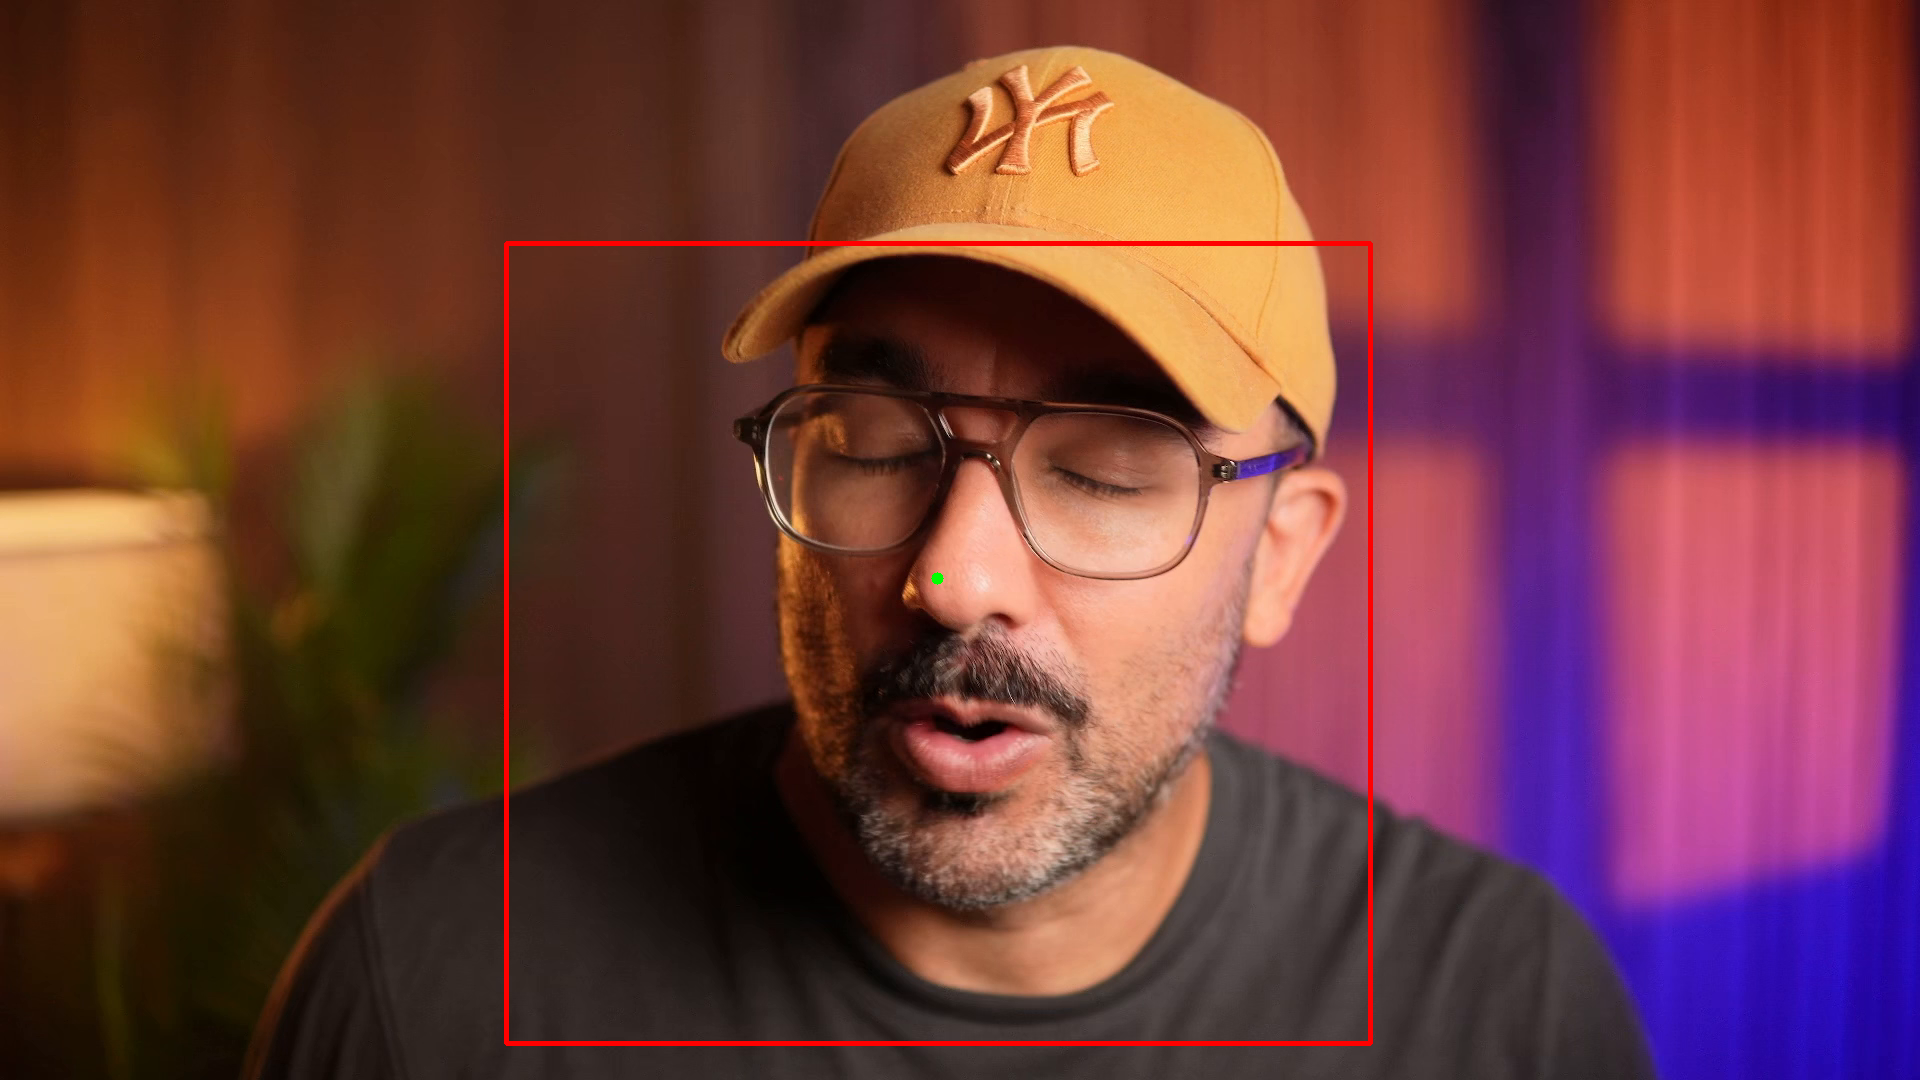
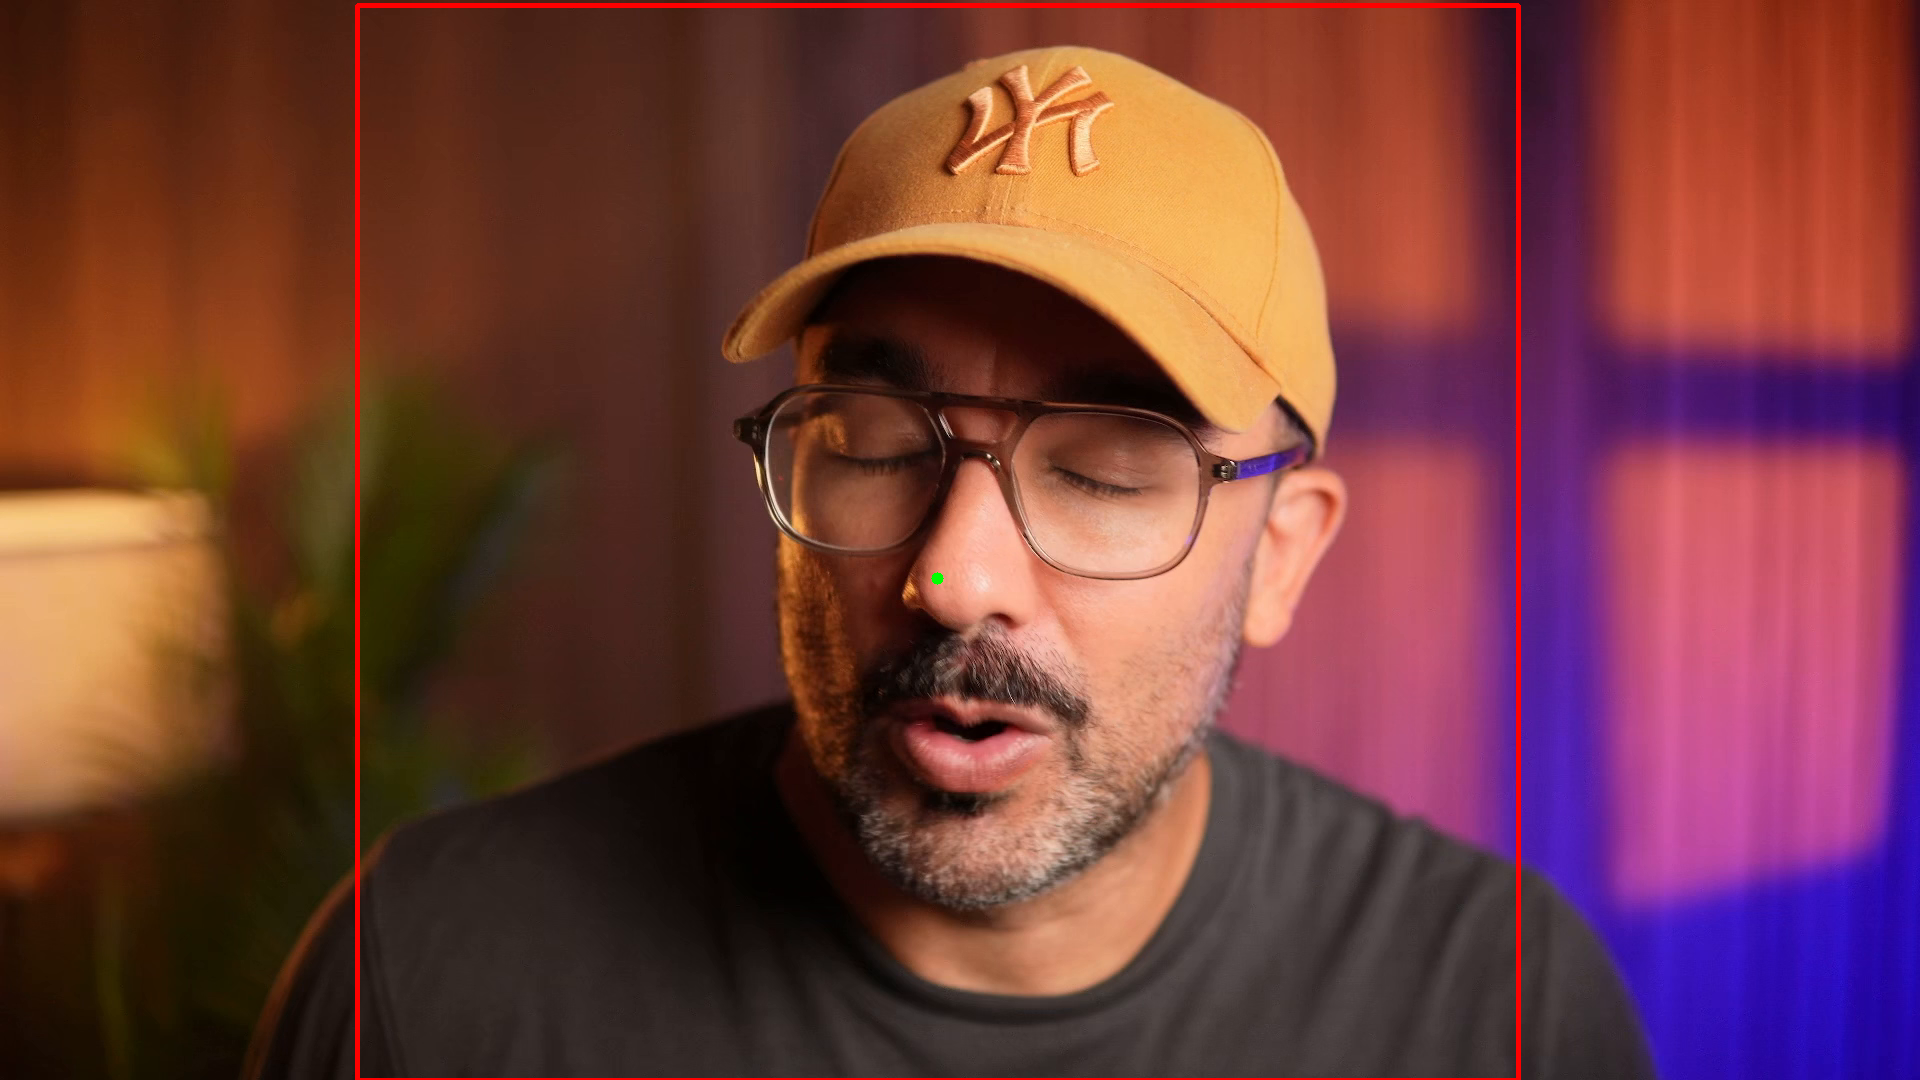
clips: cadrage visage pleine hauteur par défaut (zoom 0.93), la casquette n'est plus coupée
Claude-Session: https://claude.ai/code/session_01HyebmR3vSRbjgLMRLPAjUA

diff --git a/clips/tools/render_face.py b/clips/tools/render_face.py
@@ -120,7 +120,7 @@ def main():
     ap.add_argument("--out", required=True)
     ap.add_argument("--crop", default="auto")
     ap.add_argument("--out-size", default="1080x1000")
-    ap.add_argument("--zoom", type=float, default=1.25, help="face scale relative to a 1:1 crop of a 1080p frame")
+    ap.add_argument("--zoom", type=float, default=0.93, help="face scale relative to a 1:1 crop of a 1080p frame (<1 = use more of the frame; 0.93 keeps the full height of a 1080p source)")
     ap.add_argument("--headroom", type=float, default=0.42, help="face centre position as a fraction of crop height")
     ap.add_argument("--crf", type=int, default=16)
     ap.add_argument("--preview", action="store_true")

diff --git a/clips/README.md b/clips/README.md
@@ -25,7 +25,7 @@ python3 -I clips/tools/locate_segments.py --src master.mp4 --words master_words.
 # 3. Cut list : ancres de texte → index d'images, coupe de toute pause > 0,25 s, sous-titres re-synchronisés
 python3 -I clips/tools/build_cutlist.py work/seg/segments.json spec.json work/cutlist.json
 # 4. Piste visage : coupes exactes, cadrage automatique sur le visage (YuNet), micro-fondus audio
-python3 -I clips/tools/render_face.py --cutlist work/cutlist.json --out work/face.mp4 --out-size 1080x1000 --zoom 1.25
+python3 -I clips/tools/render_face.py --cutlist work/cutlist.json --out work/face.mp4 --out-size 1080x1000 --zoom 0.93
 # 5. Composition HyperFrames (visage + tableau + sous-titres + SFX + CTA plein écran)
 python3 -I clips/tools/build_composition.py --project clips/compositions/clip1-cerveau --cutlist work/cutlist.json --face work/face.mp4 --storyboard clips/compositions/clip1-cerveau/storyboard.json
 cd clips/compositions/clip1-cerveau && npx hyperframes check && npx hyperframes render --quality delivery --output out/clip1.mp4
